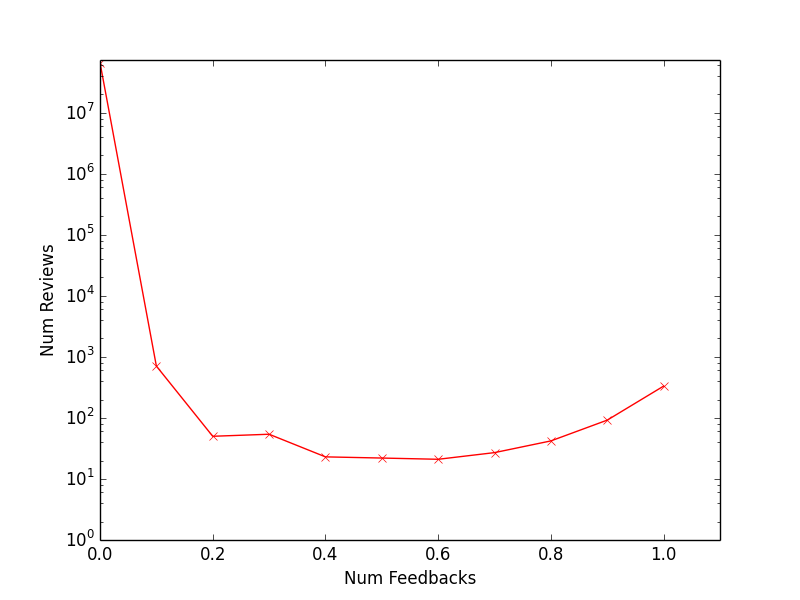
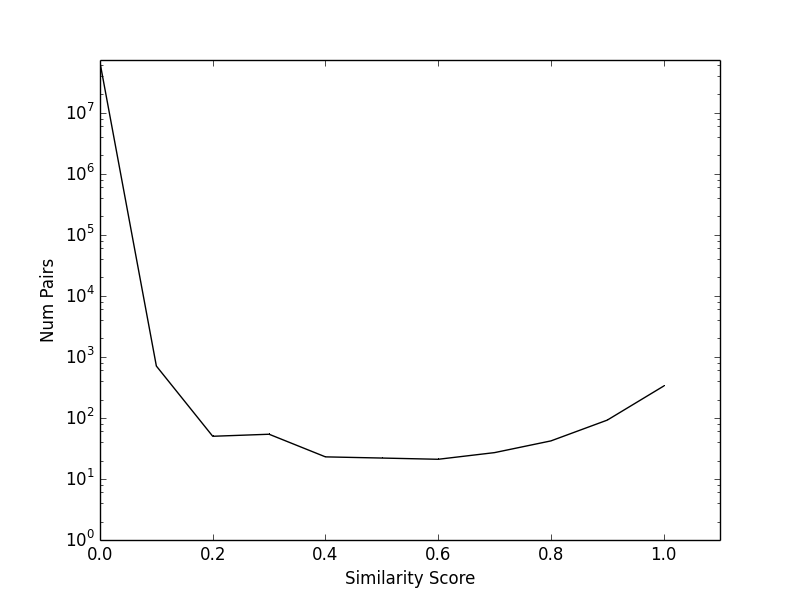
111

diff --git a/summary_plot.py b/summary_plot.py
@@ -65,7 +65,7 @@ def get_reviewer_similarity(reviewer_content_dict):
 				similarity_list.append(max(jd_list))
 	return similarity_list
 
-def save_graph(dict, saveFilename, xlabel='Num Reviews', ylabel='Num Members', use_log=[True,True], log_base=[10, 10], plot_type='rx', title=''):
+def save_graph(dict, saveFilename, xlabel='Num Reviews', ylabel='Num Members', use_log=[True,True], log_base=[10, 10], plot_type='rx', title='', color='red'):
 	"""
 	作图
 	给定的x_list和y_list作图，并根据一定的参数进行修饰
@@ -154,27 +154,28 @@ def get_reviews_similarity_relation(jd_list):
 # save_graph(get_reviews_similarity_relation(get_jd_list(fu.get_content_list()[3000:8000])), 'review_similarity.png', use_log=[False, True], plot_type='bo-')
 
 if __name__ == '__main__':
-	# fu = file_util.FileUtil()
-	# final_dict = {}
-	# for x in xrange(1,60):
-	# 	fu.open_file('../AmazonDataBackup/reviewsNew/reviewsNew' + str(x))
-	# 	fu.get_structure()
-	# 	count_dict = get_reviews_feedbacks_relation(fu.get_feedback_list())
-	# 	for feedback, num in count_dict.iteritems():
-	# 		if feedback not in final_dict.keys():
-	# 			final_dict[feedback] = 0
-	# 		final_dict[feedback] += num
+	fu = file_util.FileUtil()
+	final_dict = {}
+	for x in xrange(1,2):
+		fu.open_file('../AmazonDataBackup/reviewsNew/reviewsNew' + str(x))
+		fu.get_structure()
+		count_dict = get_reviews_feedbacks_relation(fu.get_feedback_list())
+		for feedback, num in count_dict.iteritems():
+			if feedback not in final_dict.keys():
+				final_dict[feedback] = 0
+			final_dict[feedback] += num
 
-	# print final_dict
+	print final_dict
 	# final_dict = {'5.0': 3360942, '2.0': 316981, '1.0': 482862, '4.0': 1170336, '3.0': 507449}
-	c = collections.OrderedDict(sorted({'0.9': 92, '0.8': 42, '1.0': 332, '0.1': 707, '0.0': 66243127, '0.3': 54, '0.2': 50, '0.5': 22, '0.4': 23, '0.7': 27, '0.6': 21}.items()))
+	# c = collections.OrderedDict(sorted({'0.9': 92, '0.8': 42, '1.0': 332, '0.1': 707, '0.0': 66243127, '0.3': 54, '0.2': 50, '0.5': 22, '0.4': 23, '0.7': 27, '0.6': 21}.items()))
+	c = collections.OrderedDict(sorted(final_dict.items()))
 	# values = c.values()
 	# values = [float(value) for value in values]
 	# sum_rating_num = sum(values)
 	# for key in c.keys():
 	# 	c[key] = c[key] / sum_rating_num
 	# print c
-	save_graph(c, 'graphs/reviews_similarity_11000.png', use_log=[False, True],  ylabel='Num Reviews', xlabel='Num Feedbacks', plot_type='rx-')
+	save_graph(c, 'graphs/reviewer_similarity.png', use_log=[False, True],  xlabel='Maximum Similarity Score', ylabel='Number of Reviewers', plot_type='k,-')
 	# print str(math.floor(0.348473 / 0.1) / 10)
 	# print get_reviews_similarity_relation([0.4232,0.123123, 0.986, 0.9999, 0.0])
 
